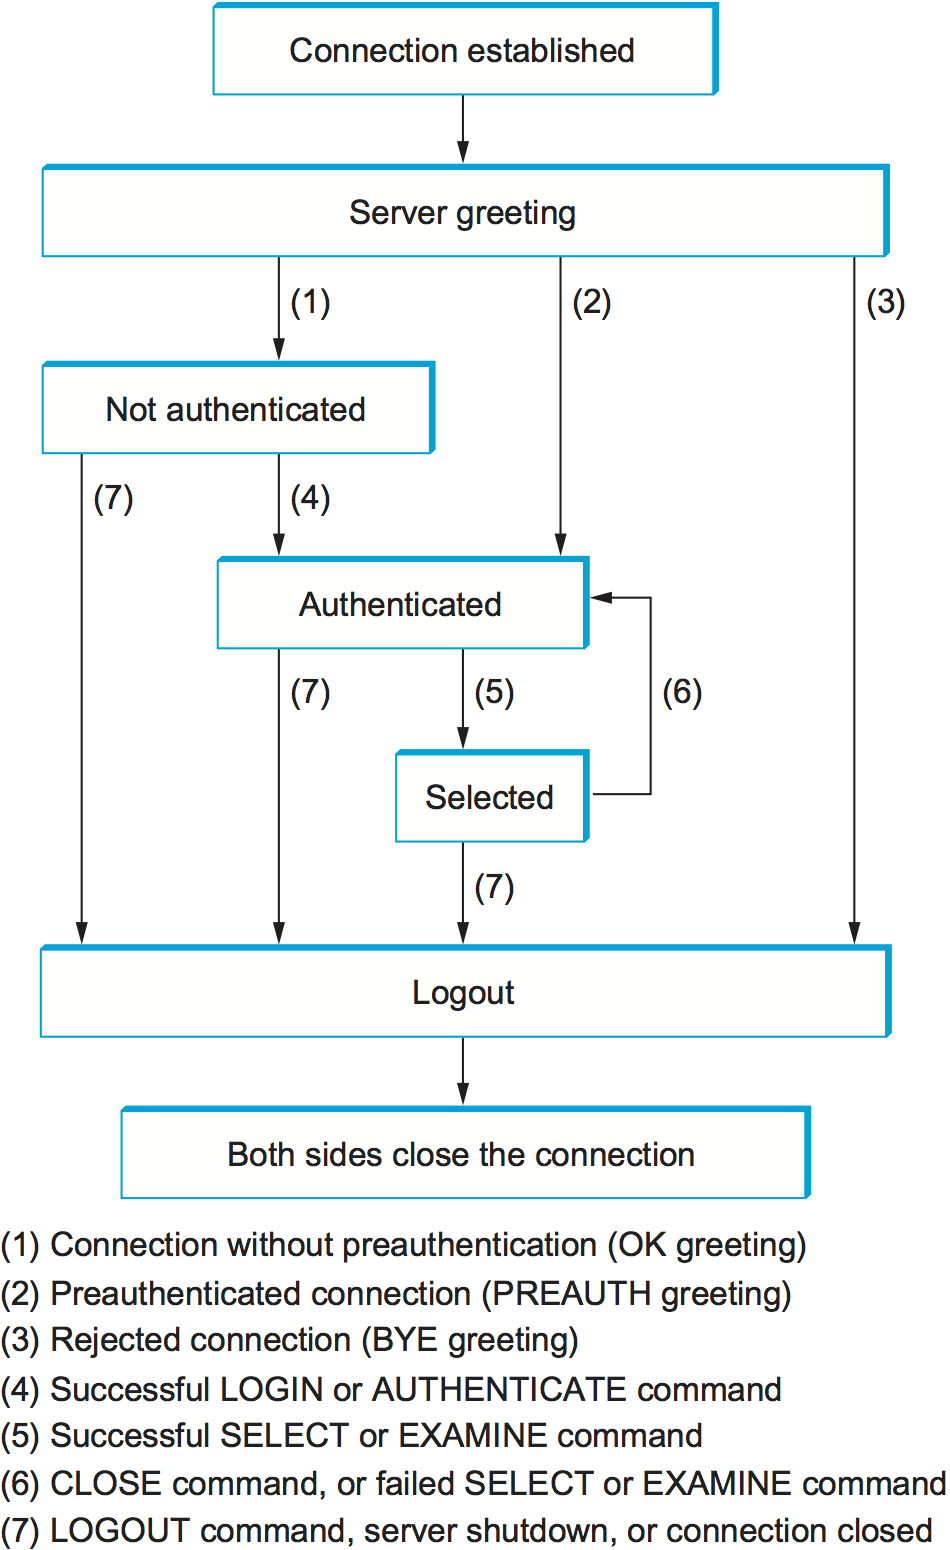
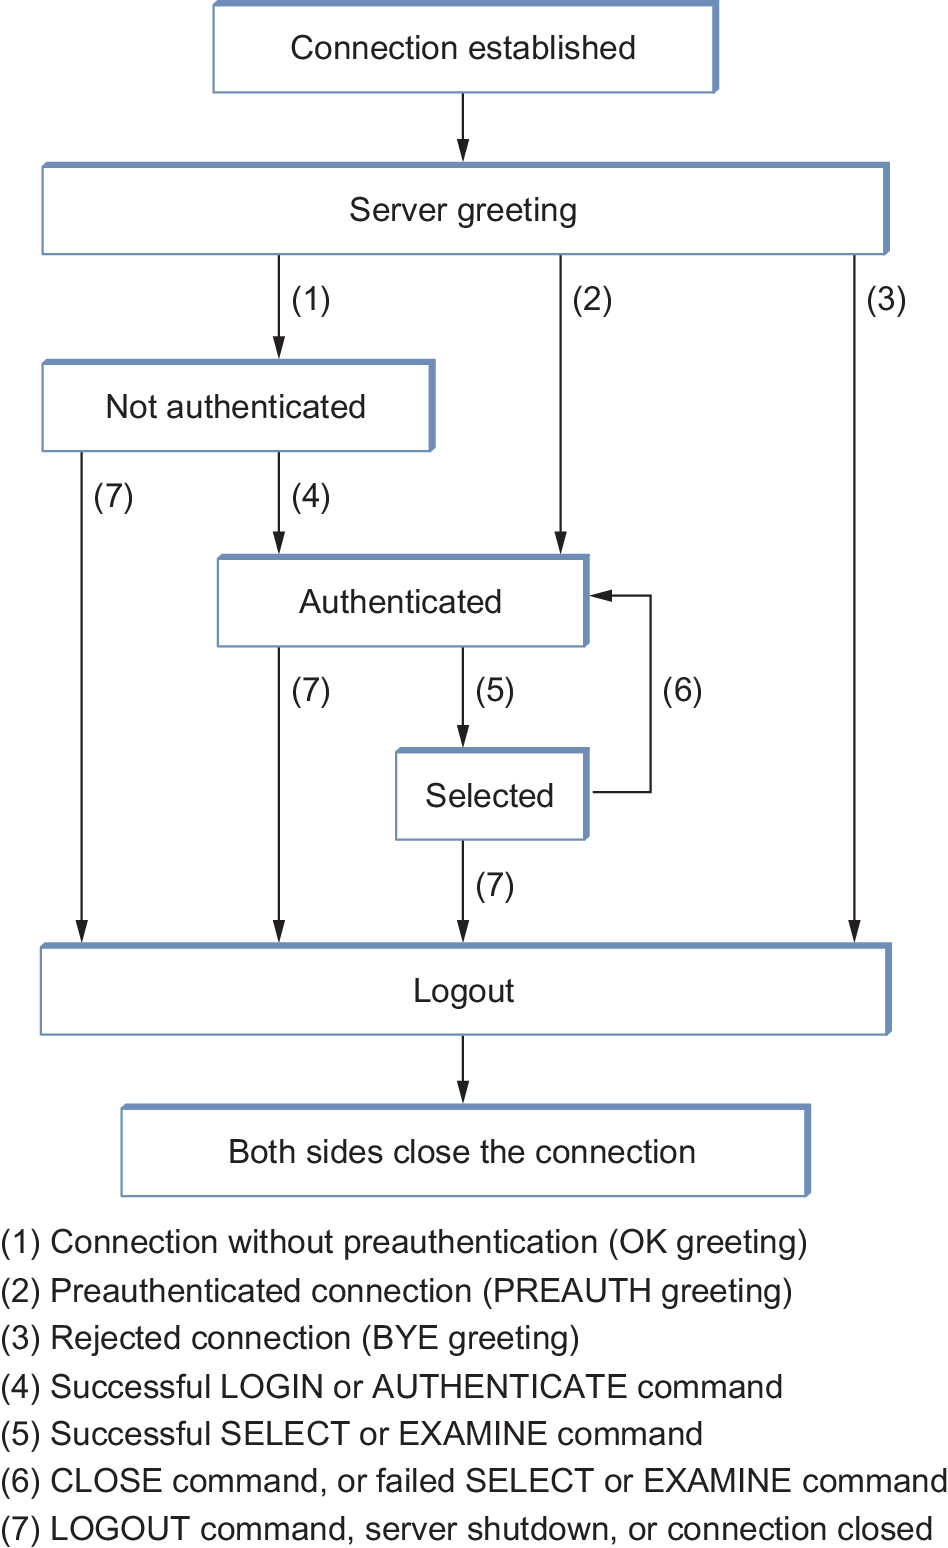
small edits

diff --git a/applications/anatomy.rst b/applications/anatomy.rst
@@ -13,8 +13,8 @@ in this chapter), a remote login service called Telnet (which was not
 secure and has been replaced by SSH), and the FTP file transfer
 protocol (which still exists but has largely been supplanted by the
 web). Dramatic improvements in available bandwidth have enabled whole
-new classes of applications, such as streaming and video conferencing;
-there has also been a significant upgrade in the software tools
+new classes of applications, such as streaming and video conferencing.
+There has also been a significant upgrade in the software tools
 available to developers, most notably those provided by the
 cloud. Before getting into specific examples, we first look at the
 basic structure that is common to nearly all applications, including a
@@ -34,14 +34,14 @@ application, such as SMTP in the case of email. Sitting underneath the
 application layer protocol are standard, general-purpose protocols
 such as TCP and IP.  Because these protocols are common across many
 applications, there is no reason (today) for application developers to
-implement them; instead, they are provided as part of the operating
+implement them. Instead, they are provided as part of the operating
 system, and exposed to applications through a standard API
-(application programming interface). For several decades the standard
-API for client-server applications has been the socket API.
+(application programming interface).
 
-The *socket interface* was originally provided by the Berkeley
-Software Distribution (BSD) of Unix, and is now supported in virtually
-all popular operating systems. It is also the foundation of
+For several decades, *sockets* have provided the standard interface
+for client-server applications. Originally implemented in the Berkeley
+Software Distribution (BSD) of Unix, the Socket API is now supported
+in virtually all operating systems. It is also the foundation of
 language-specific interfaces, such as the Java or Python socket
 library. We use Linux and C for all code examples in this book; Linux
 because it is open source and C because it remains the language of
@@ -66,24 +66,14 @@ of the Socket API. This layer includes a plethora of cloud-based tools
 that lower the barrier for implementing scalable applications as we
 discuss below.
 
-Before describing the socket interface, it is important to keep two
-concerns separate in your mind. Each protocol provides a certain set of
-*services*, and the API provides a *syntax* by which those services can
-be invoked on a particular computer system. The implementation is then
-responsible for mapping the tangible set of operations and objects
-defined by the API onto the abstract set of services defined by the
-protocol. If you have done a good job of defining the interface, then it
-will be possible to use the syntax of the interface to invoke the
-services of many different protocols. Such generality was certainly a
-goal of the socket interface, although it’s far from perfect.
-
 The main abstraction of the socket interface, not surprisingly, is the
 *socket*. A good way to think of a socket is as the point where a local
 application process attaches to the network. The interface defines
 operations for creating a socket, attaching the socket to the network,
 sending/receiving messages through the socket, and closing the socket.
 To simplify the discussion, we will limit ourselves to showing how
-sockets are used with TCP.
+sockets are used with TCP. (The API can also be used to send and
+receive messages via UDP and IP.)
 
 The first step is to create a socket, which is done with the following
 operation:
@@ -250,6 +240,12 @@ architecture* is what we call the best practices in building services
 in this cloud native manner. Both are interesting topics, but beyond
 the scope of this book. We recommend an excellent tutorial if you
 want to learn how to use Kubernetes.
+
+.. _reading_k8s:
+.. admonition:: Further Reading
+
+   `Kubernetes Tutorial
+   <https://kubernetes.io/docs/tutorials/kubernetes-basics/>`__.
 
 Keep in mind that the thousands of servers hosted in every cloud
 datacenter are interconnected using Internet technology. So the cloud

diff --git a/applications/web.rst b/applications/web.rst
@@ -40,8 +40,8 @@ relatively simple: much of the complexity is managed in this companion
 standard.  HTTP is a protocol for fetching web pages, but HyperText
 Markup Language (HTML) is a companion specification that defines the
 basic form of those pages. This separation between the data transfer
-protocol and the data format shows up again repeatedly, as we will see
-in the next section.
+protocol and the data format shows up again repeatedly; we'll see
+a second example in the next section.
 
 The World Wide Web has been so successful and has been the primary way
 many people interact with the Internet for so long that sometimes, in
@@ -270,7 +270,9 @@ As with the unexpected consequences of the ``POST`` request message, it
 is sometimes surprising how various response messages are used in
 practice. For example, request redirection (specifically code 302) turns
 out to be a powerful mechanism that plays a big role in Content
-Distribution Networks (CDNs) by redirecting requests to a nearby cache.
+Distribution Networks (CDNs) by redirecting requests to a nearby
+cache. We look more closely at CDNs in Section |Overlay|.2.
+
 
 Also similar to request messages, response messages can contain one or
 more ``MESSAGE_HEADER`` lines. These lines relay additional
@@ -304,7 +306,7 @@ connection requires setup and teardown messages to be exchanged
 between the client and server even if all the client wanted to do was
 verify that it had the most recent copy of a page. Thus, retrieving a
 page that included some text and a dozen icons or other small graphics
-would result in 13 separate TCP connections being established and
+would result in a dozen separate TCP connections being established and
 closed.
 
 To make matters worse, securely accessing a page using HTTPS (the
@@ -324,7 +326,7 @@ negative consequences.
 
 .. _fig-oldhttp:
 .. figure:: applications/figures/rtt-overhead.png
-   :width: 500px
+   :width: 450px
    :align: center
 
    HTTP 1.0 results in multiple round trips for a single
@@ -492,7 +494,7 @@ cached copy if the user visits the same page again. As another example,
 a site can support a single site-wide cache. This allows users to take
 advantage of pages previously downloaded by other users. Closer to the
 middle of the Internet, Internet Service Providers (ISPs) can cache
-pages.\ [#]_ Note that, in the second case, the users within the site most
+pages.\ [#]_ For the second case, the users within the site most
 likely know what machine is caching pages on behalf of the site, and
 they configure their browsers to connect directly to the caching host.
 This node is sometimes called a *proxy*. In contrast, the sites that
@@ -534,8 +536,7 @@ to verify that it has the most recent copy of the page. More generally,
 there are a set of *cache directives* that must be obeyed by all caching
 mechanisms along the request/response chain. These directives specify
 whether or not a document can be cached, how long it can be cached, how
-fresh a document must be, and so on. We’ll return to the subject of
-CDNs in Chapter |Overlay|.
+fresh a document must be, and so on.
 
 2.2.4 RESTful API
 ~~~~~~~~~~~~~~~~~~~~~
